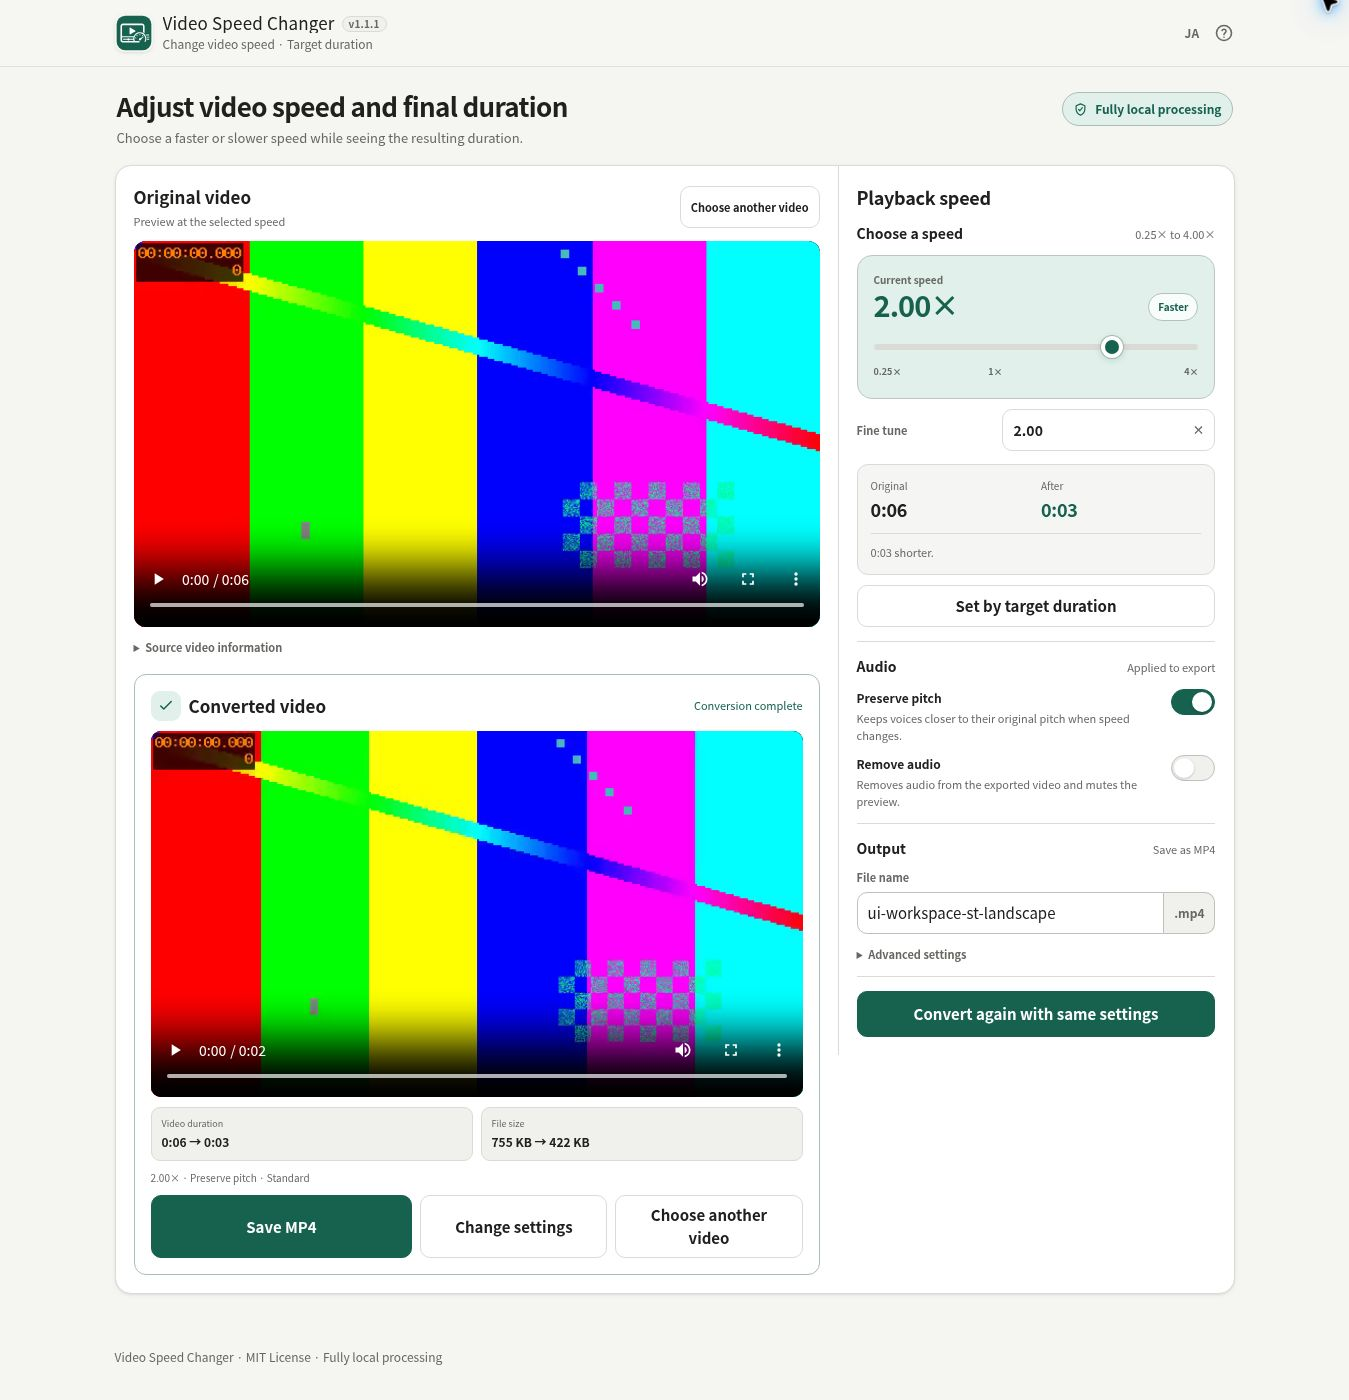
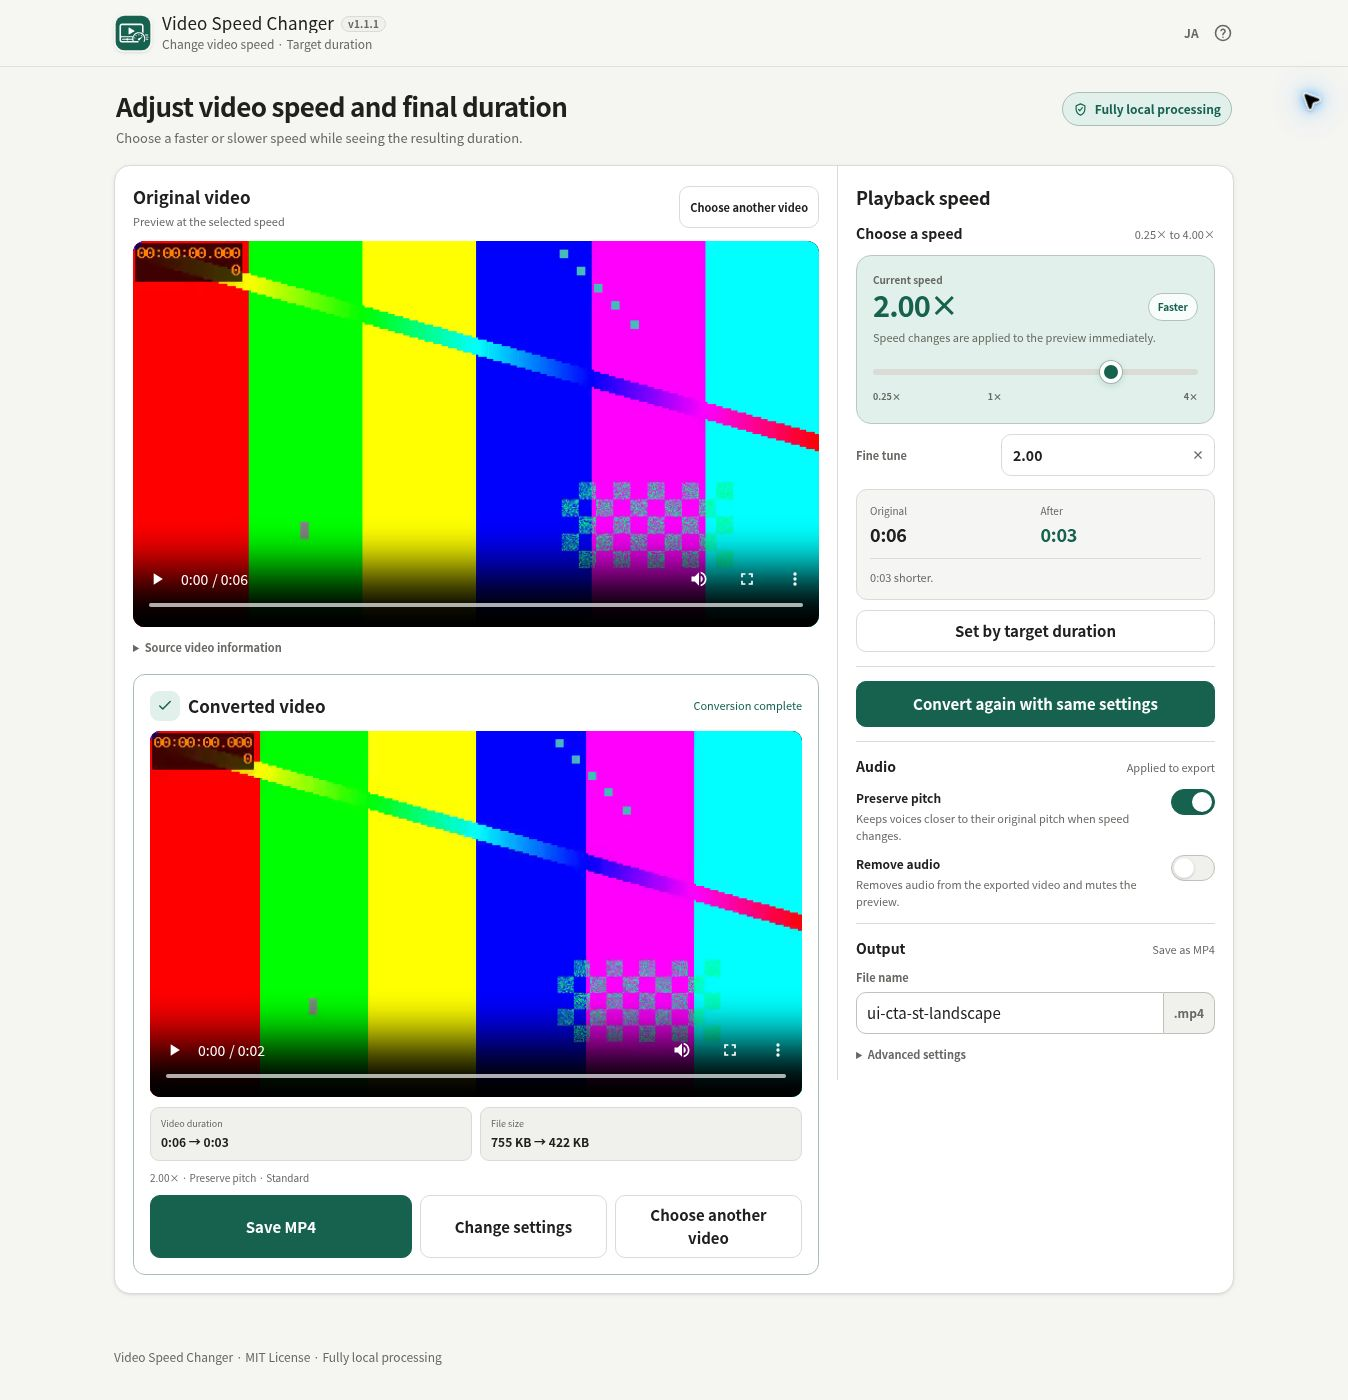
docs: verify conversion CTA placement and refresh previews

diff --git a/REGRESSION.md b/REGRESSION.md
@@ -6,7 +6,12 @@
 - Following the approved layout, moved the existing single conversion action with progress, cancellation and errors immediately after speed/target-duration controls and before Audio/Output. Source/result regions and conversion state logic are unchanged.
 - Test-first: the restored-card-copy and conversion-position assertions failed before their respective fixes. The focused UI/lifecycle suite passed 74/74 afterward.
 - Official pinned ST/MT readable/self-extract builds and the complete repository gate passed on PowerShell 7.5.2 / Node 24.19.0: 126/126 tests, zero failures/skips. All seven source/release forms passed the updated UI contracts, with provenance, exact restoration and root-download parity preserved.
-- Independent review and rendered preview verification for this follow-up are pending; earlier results below apply to their recorded heads.
+- Independent static review passed and confirmed unchanged processing logic and element-ID inventories in source and generated aliases. Head `4bc6c6c2f3ca703b874f627c00f75a7afe5a059d` passed [Windows standalone CI](https://github.com/ttomohisa/htmlapps-video-speed-changer/actions/runs/38533048872) and [Cloudflare preview CI](https://github.com/ttomohisa/htmlapps-video-speed-changer/actions/runs/38533048798), including HTTP and actual MT-isolation checks.
+- Actual cloud Chrome desktop (1348×902): the translated explanation occurs once inside the speed card. Target-duration control y=610, Convert y=681, Audio y=756 and Output y=938 confirm the primary CTA is visible in the initial viewport before secondary settings. Both JA/EN README images were refreshed from actual synthetic-media result sessions and encoded as genuine PNG with captured RGB pixels unchanged.
+- ST 2× conversion/Save produced H.264/AAC, 640×360, 2.995083 seconds, 432,496 bytes. Cancelling a later attempt retained the previous Blob URL, 2× result summary, edited name and enabled Save, with no error; progress/cancellation remain before Audio.
+- Exact 320/390 CSS-pixel JA/EN checks had no horizontal overflow and hid the footer. At 320px, real conversion focused the result heading at y=70px; Change settings returned to the visible speed input, and source replacement cleared/hid the old result. These are desktop Chrome resize/zoom checks, not physical-device tests. A capture-API viewport issue after full-page screenshots was avoided by using a fresh tab for narrow verification.
+- Isolated MT converted a genuine 90° Display Matrix input (encoded 640×360, displayed 360×640) at 1.5× and saved H.264/AAC, 360×640, 4.003083 seconds, 492,776 bytes, with no remaining rotation metadata. MT reconversion cancellation also retained the prior Blob, summary, edited name and enabled Save without an error.
+- Captured ST/narrow/MT logs contained no app-origin error/warning; browser-extension errors were unrelated. Direct file://, physical mobile devices, Safari/Firefox and native DevTools network capture were not retested. Filename editing and Save were exercised, but the API returns UUID download paths, so the browser-level saved basename was not independently observed. Earlier results below remain historical evidence.
 
 ## 2026-10-14 v1.1.1 workspace-layout follow-up
 
